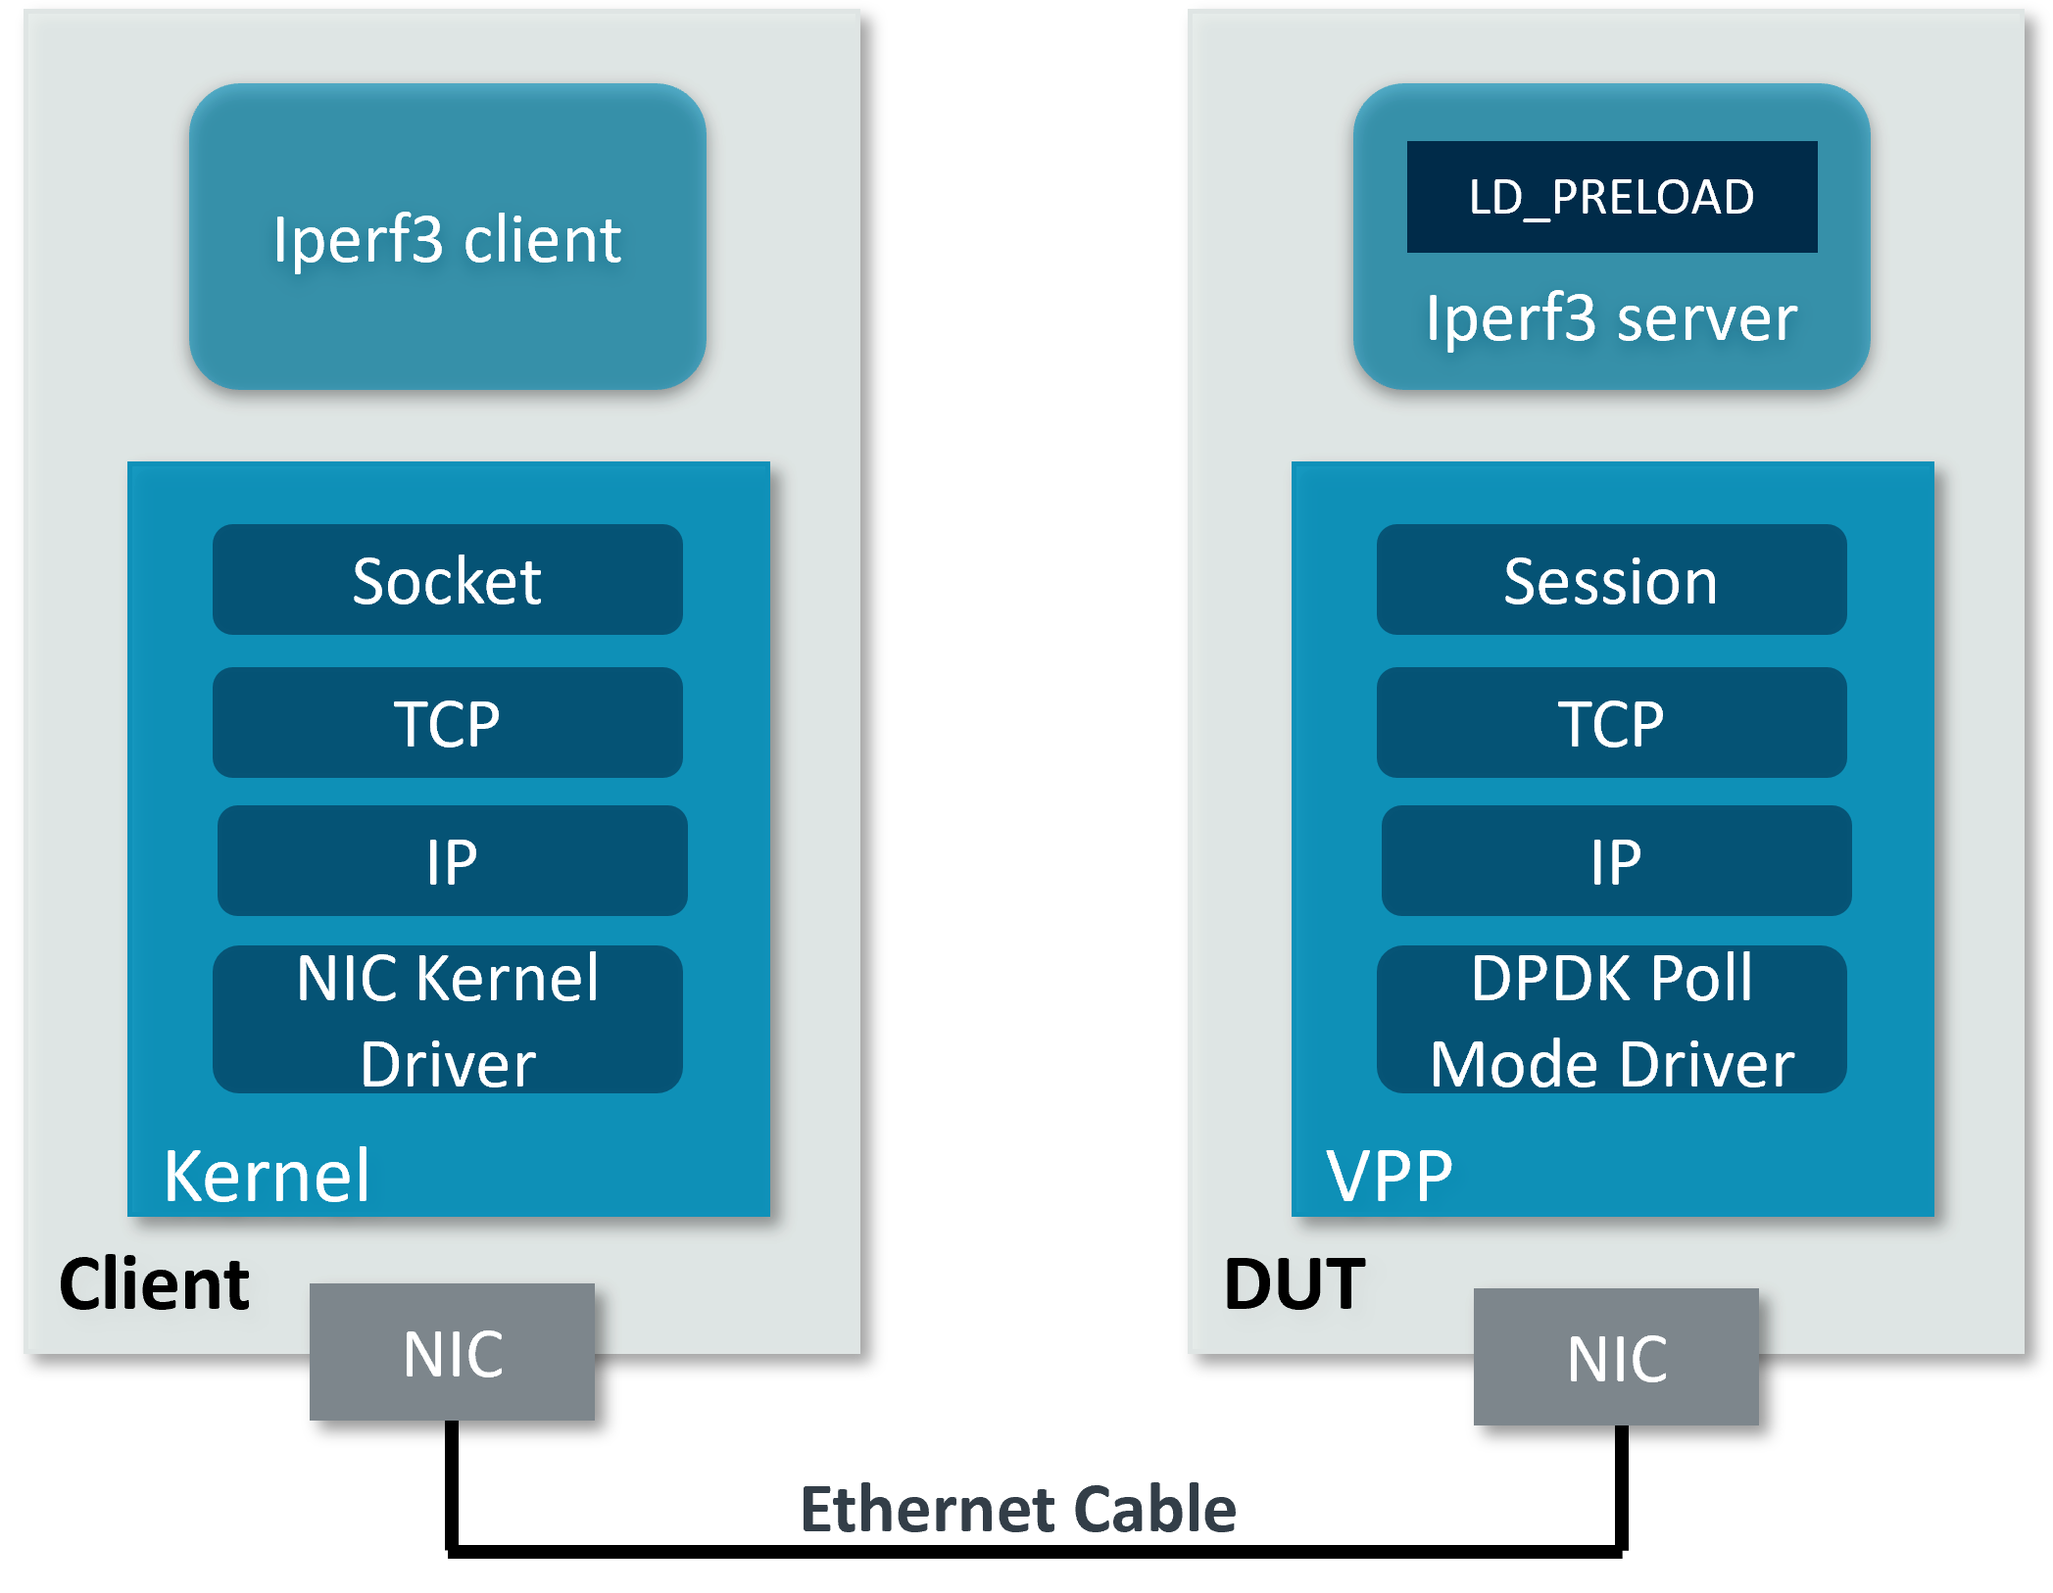
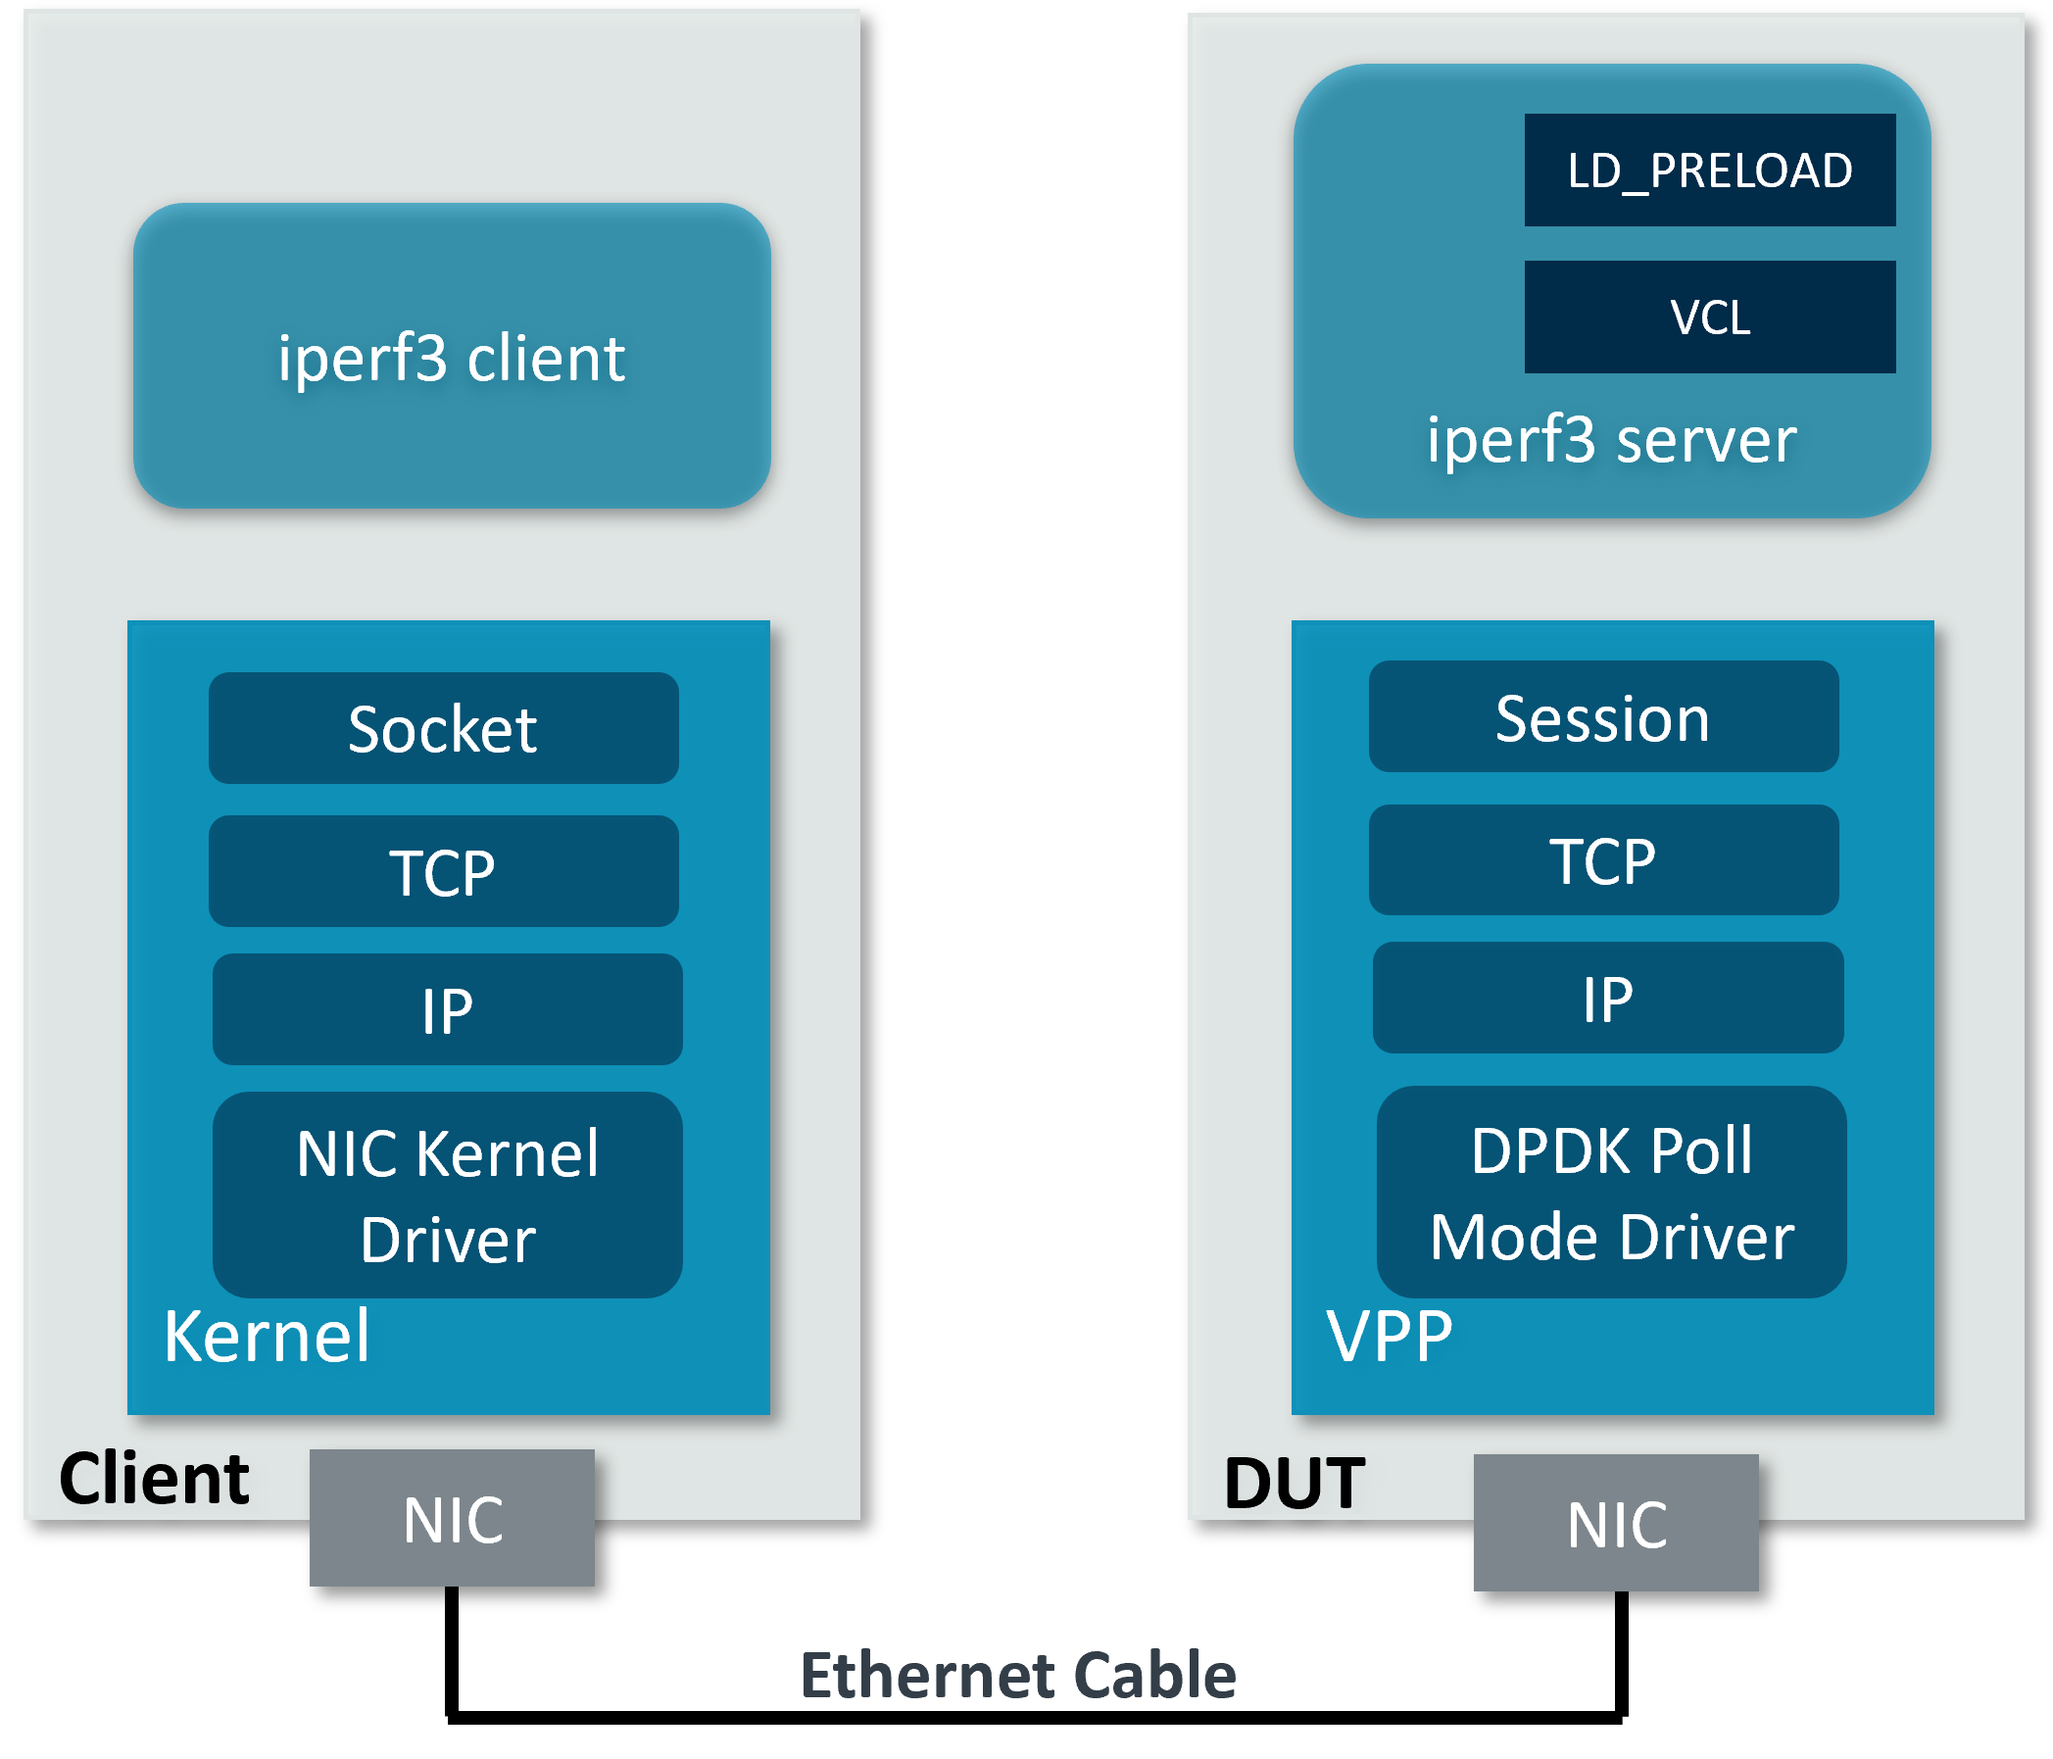
Update tcp doc and images

Changed region(s): [[0.5895, 0.0308, 0.9928, 0.9225], [0.0, 0.0308, 0.4344, 0.9225], [0.2172, 0.9225, 0.7757, 0.984]]

diff --git a/doc/user_guide/tcp_term.rst b/doc/user_guide/tcp_term.rst
@@ -21,17 +21,17 @@ on IP networks. In this guide it is used to measure the maximum attainable goodp
 of the VPP's host stack on DUT node.
 
 This guide explains in detail on how to integrate iperf3 with VPP's host stack
-for tcp termination cases. The integration is done via LD_PRELOAD which
+for TCP termination cases. The integration is done via LD_PRELOAD which
 intercepts syscalls that are supposed to go into the kernel and reinjects
 them into VPP. Users can execute bundled scripts in dataplane-stack repo to quickly
-establish the tcp termination cases or manually run the use cases by following
+establish the TCP termination cases or manually run the use cases by following
 detailed guidelines step by step.
 
 ********************
 Network Stack Layers
 ********************
 
-.. figure:: ../images/kernel-vpp-stack.png
+.. figure:: ../images/kernel_vpp_stack.png
    :align: center
 
    Linux kernel stack VS VPP's host stack.
@@ -42,7 +42,10 @@ that supports vectorized packet processing and follows VPP’s highly scalable t
 model. The implementation is RFC compliant and supports many high-speed TCP
 protocol features. VPP's host stack also provides a transport pluggable session layer
 that abstracts the interaction between applications and transports using a custom-built
-shared memory infrastructure.
+shared memory infrastructure. There is also VPP Comms Library (VCL) provided to ease
+the consumability of the stack from application perspective. VCL manages the interaction
+with the session layer, abstracts session to integer session handles and exposes its
+own async communication functions.
 
 This guide demonstrates two kinds of iperf3 connection:
 
@@ -70,7 +73,7 @@ host stack on DUT and communicate with each other through VPP loopback interface
 Automated Execution
 ===================
 
-Quickly set up VPP & iperf3 and test tcp termination use case:
+Quickly set up VPP & iperf3 and test TCP termination use case:
 
 .. code-block:: shell
 
@@ -105,7 +108,7 @@ If the case runs successfully, the measurement results will be printed:
         [ 33]   0.00-10.00  sec  22.3 GBytes  19.2 Gbits/sec                  receiver
 
 .. note::
-        VPP's host stack doesn't support tcp socket option ``TCP_INFO`` to get tcp
+        VPP's host stack doesn't support TCP socket option ``TCP_INFO`` to get TCP
         connection information, so ``Retr`` and ``Cwnd`` columns in above output are meaningless.
 
 Stop VPP and iperf3:
@@ -117,7 +120,7 @@ Stop VPP and iperf3:
 Manual Execution
 ================
 
-Users can also set up VPP & iperf3 and test tcp termination case step by step.
+Users can also set up VPP & iperf3 and test TCP termination case step by step.
 
 VPP Setup
 ~~~~~~~~~
@@ -163,9 +166,16 @@ For more detailed usage on above commands, refer to the following links,
 - `VPP app ns reference`_
 - `VPP ip route reference`_
 
-Create two vcl configuration files for iperf3 instances.
+Declare a variable to hold the VPP library for ``LD_PRELOAD``:
 
-- For server instance ``vcl_iperf3_server_lb.conf``:
+.. code-block:: shell
+
+        export LDP_PATH="<nw_ds_workspace>/dataplane-stack/components/vpp/build-root/install-vpp-native/vpp/lib/aarch64-linux-gnu/libvcl_ldpreload.so"
+
+iperf3 Server Setup
+~~~~~~~~~~~~~~~~~~~
+
+Create a VCL configuration file for iperf3 server ``vcl_iperf3_server_lb.conf``:
 
 .. code-block:: none
 
@@ -178,32 +188,11 @@ Create two vcl configuration files for iperf3 instances.
           app-socket-api /var/run/vpp/app_ns_sockets/server
         }
 
-- For client instance ``vcl_iperf3_client.conf``:
-
-.. code-block:: none
-
-        vcl {
-          rx-fifo-size 4000000
-          tx-fifo-size 4000000
-          namespace-id client
-          namespace-secret 5678
-          app-scope-global
-          app-socket-api /var/run/vpp/app_ns_sockets/client
-        }
-
-The above configure vcl to request 4MB receive and transmit fifo sizes and
-access to global session scope. Additionally, they provide the path to session
-layer's different app namespace socket for iperf3 client and server instances.
-For more vcl parameters usage, refer to `VPP vcl reference`_.
-
-Test
-~~~~
-
-Declare a variable to hold the VPP library for ``LD_PRELOAD``:
-
-.. code-block:: shell
-
-        export LDP_PATH="<nw_ds_workspace>/dataplane-stack/components/vpp/build-root/install-vpp-native/vpp/lib/aarch64-linux-gnu/libvcl_ldpreload.so"
+VCL tries to initialize by reading the configuration in above file pointed to by the
+``VCL_CONFIG`` environment variable. The above configures VCL to request 4MB receive
+and transmit fifo sizes and access to global session scope. Additionally, it provides
+the path to session layer's app namespace socket for iperf3 server. For more VCL parameters
+usage, refer to `VPP VCL reference`_.
 
 Start the iperf3 server on core 2 as a daemon over VPP's host stack:
 
@@ -219,6 +208,22 @@ Here is a sample output for iperf3 server session:
         Connection                                                  State          Rx-f      Tx-f
         [0:0][T] 172.16.1.1:5201->0.0.0.0:0                         LISTEN         0         0
         Thread 0: active sessions 1
+
+Test
+~~~~
+
+Create a VCL configuration file for iperf3 client ``vcl_iperf3_client.conf``:
+
+.. code-block:: none
+
+        vcl {
+          rx-fifo-size 4000000
+          tx-fifo-size 4000000
+          namespace-id client
+          namespace-secret 5678
+          app-scope-global
+          app-socket-api /var/run/vpp/app_ns_sockets/client
+        }
 
 Start the iperf3 client on core 3 over VPP's host stack to connect to iperf3 server:
 
@@ -250,7 +255,7 @@ printed by iperf3 client:
         [ 33]   0.00-10.00  sec  22.3 GBytes  19.2 Gbits/sec                  receiver
 
 .. note::
-        VPP's host stack doesn't support tcp socket option ``TCP_INFO`` to get tcp
+        VPP's host stack doesn't support TCP socket option ``TCP_INFO`` to get TCP
         connection information, so ``Retr`` and ``Cwnd`` columns in above output are meaningless.
 
 For more detailed iperf3 usage, refer to `iperf3 usage reference`_
@@ -274,7 +279,7 @@ Kill iperf3 server:
 Ethernet Connection
 *******************
 
-In this tcp termination scenario, iperf3 server and client run on separated hardware
+In this TCP termination scenario, iperf3 server and client run on separated hardware
 platforms and are connected with ethernet adaptors and cables. iperf3 server runs over
 VPP's host stack on DUT, and iperf3 client runs over Linux kernel stack on client node.
 
@@ -359,10 +364,10 @@ Stop VPP and iperf3:
 Manual Execution
 ================
 
-Users can also set up VPP & iperf3 and test tcp termination case step by step.
+Users can also set up VPP & iperf3 and test TCP termination case step by step.
 
-VPP Setup
-~~~~~~~~~
+DUT VPP Setup
+~~~~~~~~~~~~~
 
 Declare a variable to hold the cli socket for VPP:
 
@@ -387,7 +392,16 @@ Bring VPP ethernet interface up and set ip address:
         sudo ./vppctl -s ${sockfile} set interface state eth0 up
         sudo ./vppctl -s ${sockfile} set interface ip address eth0 172.16.3.1/24
 
-Create a VCL configuration file for iperf3 server instance ``vcl_iperf3_server_pn.conf``:
+Declare a variable to hold the VPP library for ``LD_PRELOAD``:
+
+.. code-block:: shell
+
+        export LDP_PATH="<nw_ds_workspace>/dataplane-stack/components/vpp/build-root/install-vpp-native/vpp/lib/aarch64-linux-gnu/libvcl_ldpreload.so"
+
+DUT iperf3 Server Setup
+~~~~~~~~~~~~~~~~~~~~~~~
+
+Create a VCL configuration file for iperf3 server ``vcl_iperf3_server_pn.conf``:
 
 .. code-block:: none
 
@@ -398,14 +412,10 @@ Create a VCL configuration file for iperf3 server instance ``vcl_iperf3_server_p
           app-socket-api /var/run/vpp/app_ns_sockets/default
         }
 
-The above configures vcl to request 4MB receive and transmit fifo sizes and access
-to global session scope. For more vcl parameters usage, refer to `VPP vcl reference`_.
-
-Declare a variable to hold the VPP library for ``LD_PRELOAD``:
-
-.. code-block:: shell
-
-        export LDP_PATH="<nw_ds_workspace>/dataplane-stack/components/vpp/build-root/install-vpp-native/vpp/lib/aarch64-linux-gnu/libvcl_ldpreload.so"
+VCL tries to initialize by reading the configuration in above file pointed to by the
+``VCL_CONFIG`` environment variable. The above configures VCL to request 4MB receive
+and transmit fifo sizes and access to global session scope. For more VCL parameters
+usage, refer to `VPP VCL reference`_.
 
 Start the iperf3 server on core 2 as a daemon over VPP's host stack:
 
@@ -472,7 +482,7 @@ Kill iperf3 server:
 Suggested Experiments
 *********************
 
-For jumbo packets, increase VPP tcp mtu and buffer size to improve the performance.
+For jumbo packets, increase VPP TCP mtu and buffer size to improve the performance.
 Below is VPP example config:
 
 .. code-block:: none
@@ -495,6 +505,6 @@ Resources
 #. `VPP ip route reference <https://s3-docs.fd.io/vpp/23.02/cli-reference/clis/clicmd_src_vnet_ip.html#ip-route>`_
 #. `VPP app ns reference <https://s3-docs.fd.io/vpp/23.02/cli-reference/clis/clicmd_src_vnet_session.html#app-ns>`_
 #. `VPP cli reference <https://s3-docs.fd.io/vpp/23.02/cli-reference/index.html>`_
-#. `VPP vcl reference <https://wiki.fd.io/view/VPP/HostStack/VCL>`_
+#. `VPP VCL reference <https://wiki.fd.io/view/VPP/HostStack/VCL>`_
 #. `iperf3 <https://github.com/esnet/iperf>`_
 #. `iperf3 usage reference <https://software.es.net/iperf/invoking.html>`_
